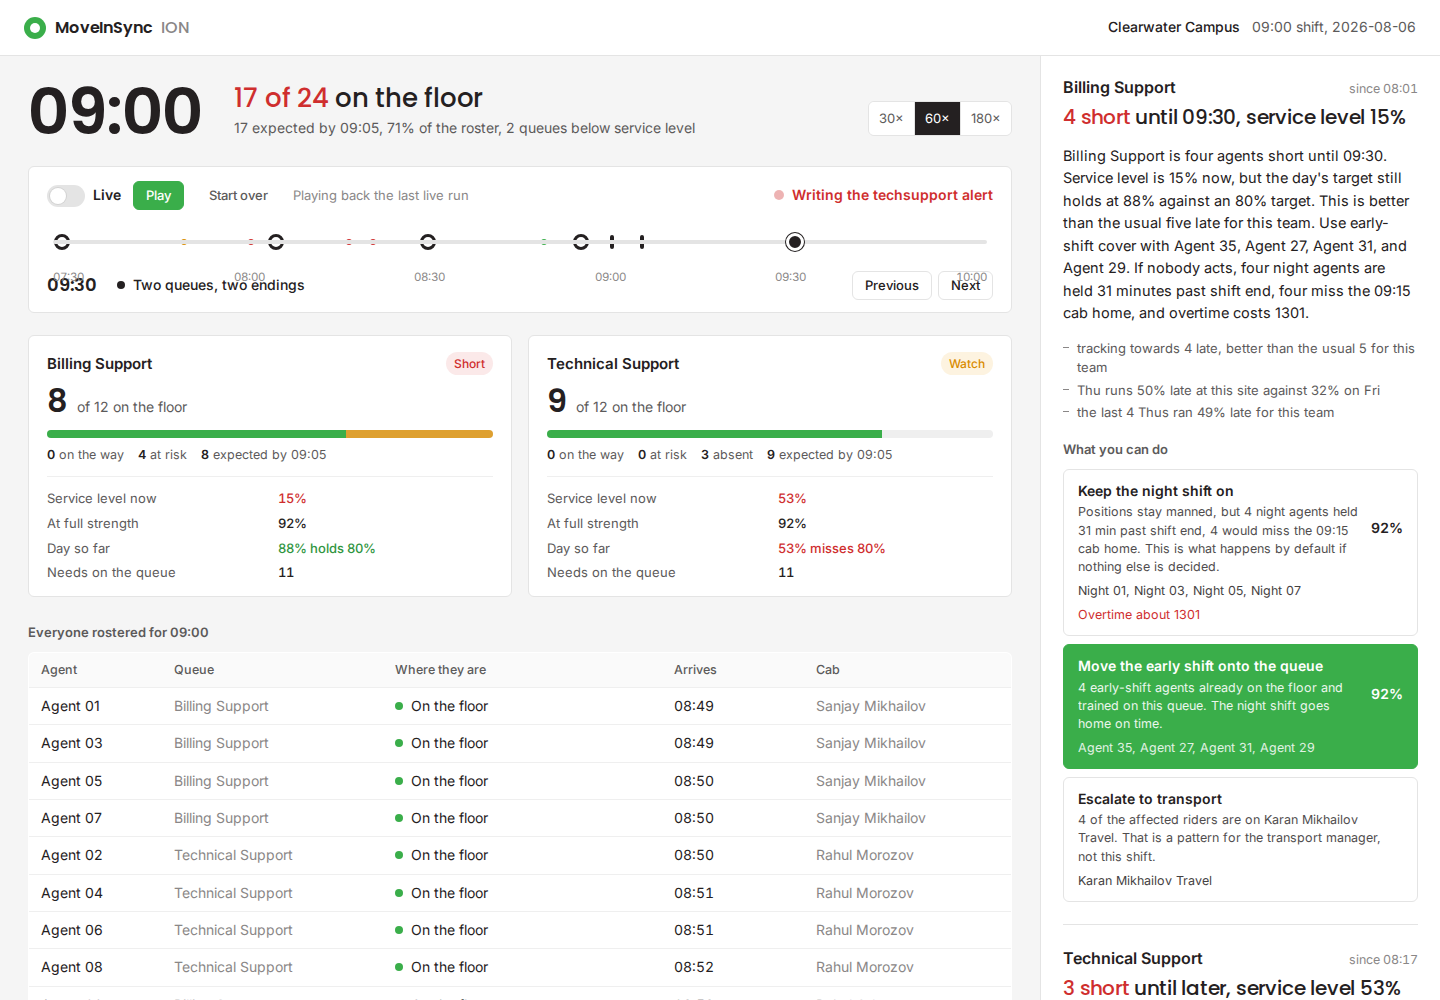
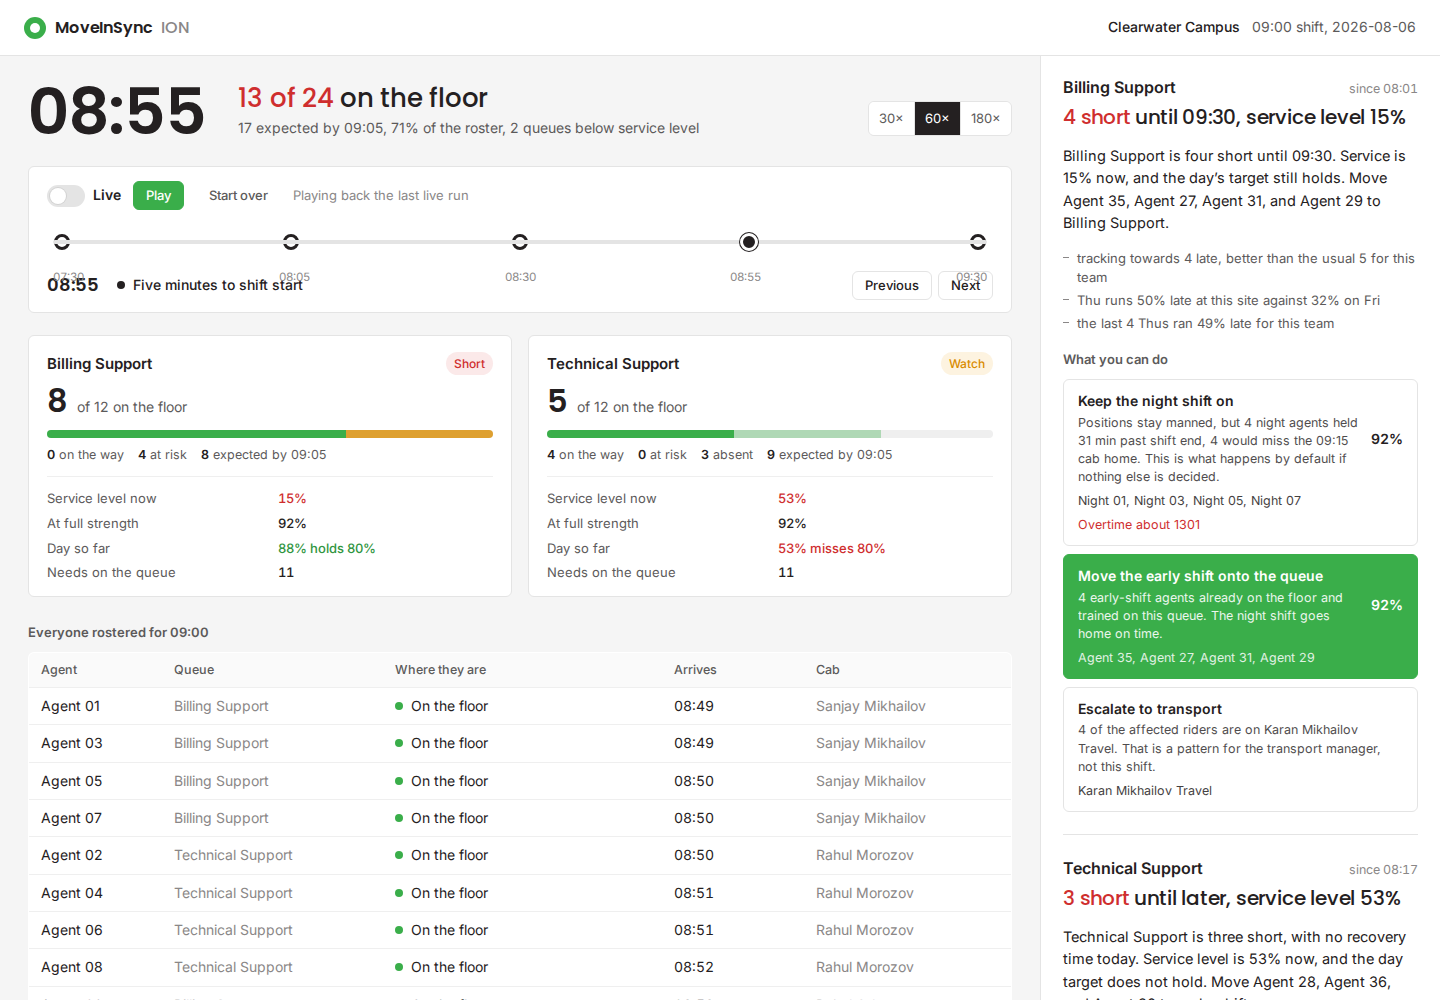
Fix the demo notes to match the designed morning
The README's six beats and the deck's closing slide still described the
real 11 June run (Agent 20 at 08:12, resolves 09:19) while the default demo
date is the designed 6 August morning with five slider stops. Presenting from
those notes would have contradicted the screen.

Both now follow the five stops, quote the alert as actually recorded at
08:55, and list the landmarks the recording derives on its own. Adds the
playback screenshot at 08:55 for the record.

Claude-Session: https://claude.ai/code/session_019fZ6qUZ6rzBuRh8GCexZ2n

diff --git a/README.md b/README.md
@@ -73,16 +73,17 @@ The demo runs on a designed Thursday, 6 August 2026, built in the dataset's own 
 | 08:55 | 13 of 24 on the floor. Billing 67%, service level 15%, day still holds. | Four priced options. Cover from four named early-shift agents is green. Hold-over costs four night agents their cab home. |
 | 09:30 | Billing's cab lands. Tech support is 9 of 12 and stays there. | Billing resolves itself. Tech stays open with the day at 53%, unrecoverable. |
 
-## The demo, in six beats
+## The demo, in five stops
 
-Switch Live on and click the dots in order.
+The slider has five stops, one per row of the table above. Rehearse once with Live on so the model writes each alert and the run is recorded; present with Live off so every stop is instant.
 
-1. **07:45.** Board green. 24 rostered, nobody due yet.
-2. **08:12.** The cab for Agent 20 has not left its depot, 32 minutes late. First amber.
-3. **08:25.** Billing Support alert opens at 92% projected coverage. The narrative arrives a few seconds later.
-4. **08:47.** Agent 15 not collected, cab has passed. The alert now offers "Call the unaccounted riders".
-5. **08:55.** Billing at 67%, service level 15%. Click **Move the early shift onto the queue**. The draft appears under Sent, naming four people who are verifiably on the floor.
-6. **09:19.** Billing back to 83%. The alert resolves itself. Ask the chat: *"Who covered this morning, and how much overtime did we avoid?"*
+1. **07:30.** Green board, 24 rostered, nobody due. Say: the agent has nothing to say and does not say it. No alert, no model call.
+2. **08:05.** One vendor's shared cab has not left its depot. Four billing riders amber, coverage 67%. The alert opens on cause `CAB_NOT_STARTED` and names the vendor. Say: nobody from the early shift is in the building yet, so the agent does not offer cover it cannot deliver; it offers the escalation instead.
+3. **08:30.** Two tech riders' cab came and went without them. Confirmed absences on a queue with one agent of headroom. Say: the day cannot reach 80% and the agent flags operations now, an hour before the shift starts. Show the urgent `ESCALATE_OPS` option and the "Call the unaccounted riders" option side by side.
+4. **08:55.** Thirteen of 24 on the floor. Billing 67%, service level 15%, day still holds. Click **Move the early shift onto the queue**. The draft lands under Sent naming four people whose arrival is recorded. Then point at hold-over: four night agents miss their cab home if nobody acts.
+5. **09:30.** Billing's cab lands and the alert resolves itself. Tech support sits at 9 of 12 with the day at 53% and stays there. Ask the chat: *"What did this morning cost, and what did we avoid by moving the early shift?"*
+
+The landmarks the recording derives on its own, for when a judge asks what happened between the stops: first cab fails to leave at 07:50, billing alert opens 08:01, Agents 16 and 20 not collected at 08:17 and 08:21, first arrival 08:49, shift starts 09:00, grace ends 09:05, billing back to strength 09:30. Left and right arrow keys step through them.
 
 ## How it is built
 

diff --git a/docs/deck.md b/docs/deck.md
@@ -49,7 +49,9 @@ Clock, headcount, two queue cards with service level, every rider's position, an
 
 ## 7. The alert, read aloud
 
-> Billing Support is four agents short until 09:19. Service level is 15% now, and the day's 80% target still holds. This is tracking towards 5 late, about the usual 5 for this team. Recommend early-shift cover from Agent 27, 29, 35 and 31. If nobody acts, 4 night agents are held 19 min past shift end and 4 would miss the 09:15 cab home.
+> Billing Support is four short until 09:30. Service is 15% now, and the day's target still holds. Move Agent 35, Agent 27, Agent 31, and Agent 29 to Billing Support.
+
+And beside it, the option nobody chose, priced: four night agents held 31 minutes past shift end, four miss the 09:15 cab home, overtime about 1301.
 
 Every number computed. Every name real. The model chose the order and wrote the sentences.
 
@@ -91,6 +93,12 @@ Postgres for everything, including agent sessions. Every table and endpoint keye
 
 Cut, deliberately: GPS, vendor contact, HR overtime rules, authentication, the other two personas.
 
-## Then: live demo
+## Then: the demo
 
-Six beats, three minutes. Jump to 08:55, read the alert, click cover, show the draft, ask the chat one question, let it resolve.
+Five stops on the slider, three minutes, Live off so every stop is instant. Rehearse once beforehand with Live on so the model has written each alert and the run is recorded.
+
+1. 07:30, nothing to say and it says nothing.
+2. 08:05, one vendor's cab has not left; the alert names the vendor and withholds cover it cannot deliver.
+3. 08:30, two confirmed absences; the day is lost and operations is flagged an hour early.
+4. 08:55, click cover, show the draft, point at what hold-over would have cost.
+5. 09:30, billing resolves itself, tech does not; ask the chat what the morning cost.
